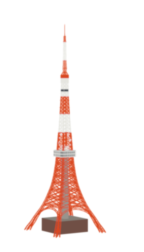
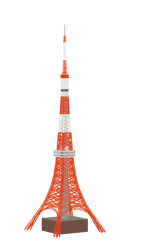
東京タワーが透けて見えるのを直す：エレベーターの軸を足し、上の段の部材を本物の太さに、塔の層のぼかしを弱める
- 大展望台からトップデッキへのエレベーターの軸（中央の密な格子の筒、約 6m 角、130〜223.5m）を模型に足した（scripts/city-bake/tower.py）。
  本物はこの軸と前後の面の部材が重なって上の段が詰まって見える。上の段の X は 1.0m、横の梁は 0.85m、脚は 15% 太く、
  内側の枠も太く。24 画素/pt の焼き込みでの充填は 130m より上で 82% → 94〜98%。橙は少し濃く
- 塔の層（post5.py）の縮小ぼかしを街の 0.55 画素から 0.35 画素に。幅 11 画素しかない塔では 0.55 だと半分近くが半透明の縁になり、
  向こうの街が透けて見えていた（上の段で被覆 0.9 以上の画素 52% → 58%、平均の被覆 0.71 → 0.78）
- 代わりの絵（WebGL なし）を作り直し。テスト 778、PC の見た目は本番との差分 0px

Claude-Session: https://claude.ai/code/session_01VXta14VyGyHnimiy8JAqdH

diff --git a/scripts/city-bake/tower.py b/scripts/city-bake/tower.py
@@ -21,7 +21,7 @@ PROFILE = [(0, 94.0), (6, 88.6), (14, 79.5), (20, 74.0), (28, 66.0), (36, 57.5),
            (66.5, 35.6), (72, 32.6), (78.2, 30.0), (84, 28.0), (89, 26.4), (94, 25.0), (98.8, 24.0), (104, 22.8), (109.5, 21.6), (115, 20.8),
            (120, 20.3), (130, 18.6), (141, 17.3), (150, 16.2), (159, 15.0), (170, 13.9), (181, 12.8), (189, 12.0), (200, 10.9), (210, 10.1),
            (217, 9.6), (224, 9.2), (239, 8.6)]
-LEGW = [(0, 6.5), (20, 5.0), (41.5, 3.6), (80, 2.8), (120, 2.2), (130, 2.0), (160, 1.6), (200, 1.3), (239, 1.1)]
+LEGW = [(0, 6.5), (20, 5.0), (41.5, 3.6), (80, 2.8), (120, 2.2), (130, 2.5), (160, 2.1), (200, 1.7), (239, 1.4)]
 LOWER = [41.5, 54.3, 66.5, 78.2, 89.0, 98.8, 109.5, 120.0]
 UPPER = list(np.linspace(130.0, 239.0, 20))
 def interp(K, z):
@@ -32,7 +32,7 @@ def interp(K, z):
 def h(z): return interp(PROFILE, z) / 2
 def wl(z): return interp(LEGW, z)
 
-ORANGE = (0.85, 0.28, 0.12); WHITE = (0.90, 0.90, 0.88); GLASS = (0.30, 0.33, 0.36); DECKW = (0.88, 0.88, 0.86)
+ORANGE = (0.86, 0.26, 0.09); WHITE = (0.90, 0.90, 0.88); GLASS = (0.30, 0.33, 0.36); DECKW = (0.88, 0.88, 0.86)
 ROOF = (0.70, 0.70, 0.68); CORE = (0.60, 0.58, 0.55); FOOT = (0.44, 0.31, 0.27); DISH = (0.93, 0.93, 0.91)
 BAND0, TOP = 130.0, 333.0
 BOUNDS = [BAND0 + k * (TOP - BAND0) / 7 for k in range(1, 7)]
@@ -162,14 +162,14 @@ for axis, sign in FACES:
     # 上の段：横の梁と X
     for i, (z0, z1) in enumerate(zip(UPPER, UPPER[1:])):
         e = lambda z: h(z) - wl(z) / 2
-        beam(fp(axis, sign, -e(z1), z1, wl(z1) / 2), fp(axis, sign, e(z1), z1, wl(z1) / 2), 0.55, 0.5, face=fn)
+        beam(fp(axis, sign, -e(z1), z1, wl(z1) / 2), fp(axis, sign, e(z1), z1, wl(z1) / 2), 0.85, 0.7, face=fn)
         if i % 2 == 1 and z1 < 236:
             hh = h(z1) + 0.6
             p0 = (sign * hh, -hh, z1) if axis == 0 else (-hh, sign * hh, z1); p1 = (sign * hh, hh, z1) if axis == 0 else (hh, sign * hh, z1)
             beam(p0, p1, 0.3, 0.3, face=fn)
         BL, TR = fp(axis, sign, -e(z0), z0, wl(z0) / 2), fp(axis, sign, e(z1), z1, wl(z1) / 2)
         BR, TL = fp(axis, sign, e(z0), z0, wl(z0) / 2), fp(axis, sign, -e(z1), z1, wl(z1) / 2)
-        beam(BL, TR, 0.5, 0.45, face=fn); beam(BR, TL, 0.5, 0.45, face=fn)
+        beam(BL, TR, 1.0, 0.7, face=fn); beam(BR, TL, 1.0, 0.7, face=fn)
     # 大展望台の下の梁（120m）と、上（130m）から最初の段
     s = h(119.2) - wl(119.2); beam(fp(axis, sign, -s, 119.2, wl(119.2) / 2), fp(axis, sign, s, 119.2, wl(119.2) / 2), 0.7, 0.7, face=fn)
     # アーチ（各面。脚の内側から立ち上がり、41.5m の梁の下で頂点）
@@ -195,13 +195,21 @@ for zk in LOWER[:-1] + UPPER[1::2]:
 for z0, z1 in zip(UPPER, UPPER[1:]):
     if z0 < 159: continue
     q0, q1 = 0.55 * h(z0), 0.55 * h(z1)
-    for sx, sy in ((-1, -1), (1, -1), (1, 1), (-1, 1)): beam((sx * q0, sy * q0, z0), (sx * q1, sy * q1, z1), 0.35)
+    for sx, sy in ((-1, -1), (1, -1), (1, 1), (-1, 1)): beam((sx * q0, sy * q0, z0), (sx * q1, sy * q1, z1), 0.5)
     for (ax, ay), (bx, by) in (((-1, -1), (1, -1)), ((1, -1), (1, 1)), ((1, 1), (-1, 1)), ((-1, 1), (-1, -1))):
         beam((ax * q0, ay * q0, z0), (bx * q1, by * q1, z1), 0.25)
         beam((ax * q1, ay * q1, z1), (bx * q1, by * q1, z1), 0.25)
 
 # ---- 中央の芯（エレベーターと階段。フットタウンの屋上から大展望台まで）とフットタウン ----
 ring([(5, -4), (5, 4), (-5, 4), (-5, -4)], 20.4, 120.0, CORE, 4)
+# ---- 大展望台からトップデッキへのエレベーターの軸（中央の密な格子の筒、約 6m 角）。前後の面の部材と重なって、上の段が詰まって見える ----
+SH = 3.0
+for z0, z1 in zip(zsteps(130.0, 223.5, 2.9), zsteps(130.0, 223.5, 2.9)[1:]):
+    for sx, sy in ((-1, -1), (1, -1), (1, 1), (-1, 1)): beam((sx * SH, sy * SH, z0), (sx * SH, sy * SH, z1), 0.8, part=0, col=CORE)
+    for (ax, ay), (bx, by) in (((-1, -1), (1, -1)), ((1, -1), (1, 1)), ((1, 1), (-1, 1)), ((-1, 1), (-1, -1))):
+        beam((ax * SH, ay * SH, z0), (bx * SH, by * SH, z1), 0.3, part=0, col=CORE)
+        beam((bx * SH, by * SH, z0), (ax * SH, ay * SH, z1), 0.3, part=0, col=CORE)
+        beam((ax * SH, ay * SH, z1), (bx * SH, by * SH, z1), 0.3, part=0, col=CORE)
 ring([(25, -28), (25, 28), (-25, 28), (-25, -28)], 0.0, 20.4, FOOT, 4, caps=True, capcol=(0.52, 0.5, 0.47))
 
 # ---- 大展望台（120〜130m、2 階建て。角を落とした四角、白い枠と 2 段の窓）----

diff --git a/scripts/city-bake/post5.py b/scripts/city-bake/post5.py
@@ -28,8 +28,9 @@ os.makedirs('layers', exist_ok=True)
 def pack(k, tag):
     h, w = H // k, W // k
     def blk(a): return a[:h * k, :w * k].reshape(h, k, w, k, *a.shape[2:]).swapaxes(1, 2).reshape(h, w, k * k, *a.shape[2:])
-    # 縮小はカメラと同じ形（ガウス＋画素の箱。合わせて標準偏差 0.55 画素）。被覆（透け具合）も同じ形で散らす
-    SIG = k * math.sqrt(0.55 ** 2 - 1 / 12)
+    # 縮小はカメラと同じ形（ガウス＋画素の箱）。塔は細くて明暗の差が大きいので、カメラの輪郭強調の分を見込んで街（0.55 画素）より
+    # 小さい標準偏差 0.35 画素（0.55 だと幅 11 画素の塔の半分近くが半透明の縁になり、向こうの街が透けて見える）
+    SIG = k * math.sqrt(0.35 ** 2 - 1 / 12)
     def smooth(a):
         a = a.astype(np.float32)
         if a.ndim == 3: return np.stack([ndimage.gaussian_filter(a[..., i], SIG, mode='nearest') for i in range(a.shape[2])], -1)

diff --git a/docs/features.md b/docs/features.md
@@ -323,7 +323,7 @@
     - 曇り・雨・雪：雲の底を照らす空の光は曇るほど青みが抜けて灰色、厚い雲は地平線まで覆い、すき間から晴れの空が見えない。厚い雲は夕焼けを通さない（明るさだけ空に合わせた灰色、夜は街明かりで茶灰色）。曇りの日の遠くの霞は雲の底の色。
     - 画素のなめらかさ：焼き込みは画面の 4 倍（4716×3300）で描き、カメラのレンズと同じ形（ガウス＋画素の箱、合わせて標準偏差 0.55 画素）で縮める（平均だけだと輪郭が階段状に残り、拡大するとブロックに見える）。窓のきらめきの乱数は画面の画素ではなく窓の鍵から。ピンチで拡大しているときは、その倍率（2 倍まで）でキャンバスを描き直す（`visualViewport` の scale。引き伸ばしで四角くならない。絵の画素数は画面と同じなので、それ以上は写真と同じくぼける）。
     - 航空障害灯（航空法の決まり。`scripts/city-bake/post4.py`）：60m 以上の建物の屋上の両端に赤い灯、90m 以上は赤の明滅（中光度赤色、毎分 20〜60 回＝周期 1.4〜2.6 秒、点灯 45%）、150m 以上と東京タワーの頂は昼は白い閃光（中光度白色。周期の 12%、日の出前 3° から）で夜は赤の明滅。105m を超える建物は中間の高さ（52.5m 以下の等間隔）にも不動の赤。同じ建物の灯は同期、建物どうしは位相がずれる。昼の閃光だけのコマは合成した絵（`frameT`）を使い回して 6 コマ/秒（分が変わったら描き直す）。
-    - 目立つ高層ビルの外装（`scripts/city-bake/facades.json`、post2）：PLATEAU の空中写真の質感は 1 画素 0.5〜1m でぼやけるので、愛宕グリーンヒルズ MORI・フォレスト、麻布台ヒルズ レジデンスA、アークヒルズ仙石山森タワー、泉ガーデンタワー、六本木グランドタワー、六本木ヒルズ森タワー、ミッドタウン・タワーは、実際の階数で各階の帯・ガラス・方立を描く（ガラスは窓として扱い、夜の点灯と空の映り込みが付く。色は写真から）。形は PLATEAU のまま。
+    - 目立つ高層ビルの外装（`scripts/city-bake/facades.json`、post2）：PLATEAU の空中写真の質感は 1 画素 0.5〜1m でぼやけるので、愛宕グリーンヒルズ MORI・フォレスト、麻布台ヒルズ レジデンスA、アークヒルズ仙石山森タワー、泉ガーデンタワー、六本木グランドタワー、六本木ヒルズ森タワー、ミッドタウン・タワーは、実際の階数で各階の帯・ガラス・方立を描く（ガラスは窓として扱い、夜の点灯と空の映り込みが付く。色は写真から）。形は PLATEAU のまま。東京タワーは大展望台からトップデッキへのエレベーターの軸（中央の密な格子の筒）を持ち、上の段の部材は本物の太さ（X 1.0m・梁 0.85m）なので、格子のすき間から街が透けない（24 画素/pt の焼き込みでの充填は 130m より上で 94〜98%）。塔の層の縮小ぼかしは街より小さい 0.35 画素（0.55 だと幅 11 画素の塔の半分近くが半透明の縁になる）。
     - 写真らしさ：空からの光は建物どうしの照り返しで青みが薄まる（空の光の彩度を 45% 落とし、地面の照り返しは暖かい灰色 0.16）。建物の間（空の見え方が小さい所）は暗い。窓は空を映す（フレネル。オフィスの熱線反射ガラスは正面でも 12%、斜めから見るほど鏡に近づく。太陽の映り込みはきらりと光る。写真の質感のある建物は質感に窓が写っているので、窓の型ではなく用途ごとの一様なガラスの割合で映す）。東京タワーは格子なので、面の向きによらず昼は日が当たる（高さ地図では自分の影にしない。部材は遠目の密度に合わせて少し太め）。東京の夜空は明るいので星は明るいものだけ（帯に十数個、地平線の近くは見えない）。焼き込んだ色は縮小で柔らかくなった分を少し研ぐ（カメラの輪郭強調と同じ程度）。
     - 湿度（`lib/app/air.ts`）：霞の粒は湿度が高いと水を吸ってふくらみ光をよく散らす。気象庁の湿度と季節（冬は大陸の澄んだ空気、夏はもや・光化学スモッグ）から霞の量 aero を決め、大気の式のミー散乱（地表近くの層。上空の薄い霞は湿度によらず、日没後の西の赤みのもと）、太陽と月のにじみの広がり、遠くの霞（見通し＝コシュミーダーの式。同じ係数）、星の見え方、夜の空の明るさ（街の明かりが霞で散る）に使う。見通しは乾いた冬の 30% で約 105km（富士山がくっきり）、10 月の 50% で約 29km、夏の 65% で約 12km、88% で約 6km。CSS の色と <head> の最初の計算も同じ（湿度は端末に覚えた観測から。#…&h=30 で固定できる）。
     - 出典は「その他」の「データの出典と時点」に「街並み（ホームの帯）」として表示（PLATEAU・地理院タイルを加工して作成）。
